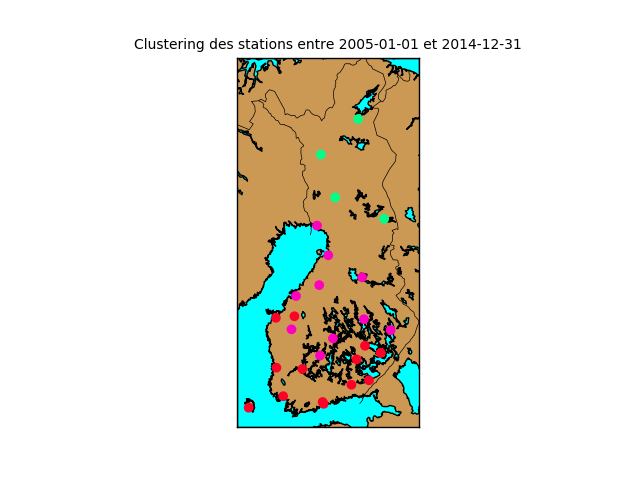
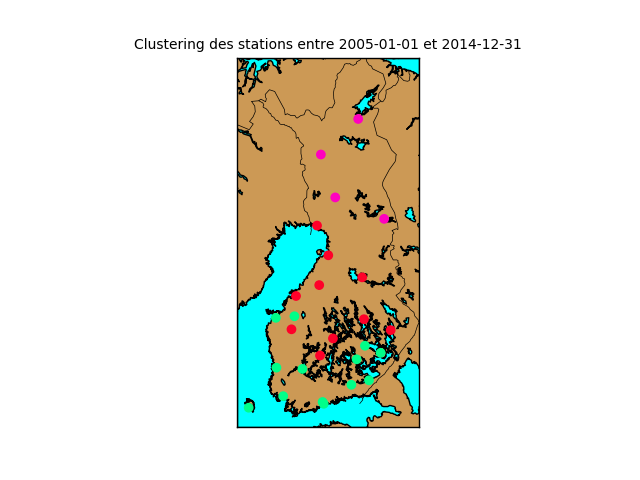
Only years period for question 3

diff --git a/cluster_by_period.py b/cluster_by_period.py
@@ -15,19 +15,6 @@ from matplotlib.colors import Colormap
 logging.getLogger().setLevel(logging.INFO)
 
 def extract_data(start, end):
-    # Check parameters
-    dateparser = re.compile("(?P<year>\d+)-(?P<month>\d+)-(?P<day>\d+)")
-
-    start_parsed = dateparser.match(start)
-    end_parsed = dateparser.match(end)
-
-    if not start_parsed or not end_parsed:
-        logging.critical('Les dates doivent être au format year-month-day.')
-        return
-
-    start_data = start_parsed.groupdict()
-    end_data = end_parsed.groupdict()
-
     # Extract data
     cluster = Cluster()
     session = cluster.connect('finland_weather_metar')
@@ -35,12 +22,8 @@ def extract_data(start, end):
     query = '''
         SELECT station, latitude, longitude, temperature_fahrenheit, dew_point_temperature, feel
         FROM temporal
-        WHERE year >= ''' + str(start_data['year']) + '''
-        AND month >= ''' + str(start_data['month']) + '''
-        AND day >= ''' + str(start_data['day']) + '''
-        AND year <= ''' + str(end_data['year']) + '''
-        AND month <= ''' + str(end_data['month']) + '''
-        AND day <= ''' + str(end_data['day']) + '''
+        WHERE year >= ''' + str(start) + '''
+        AND year <= ''' + str(end) + '''
         ALLOW FILTERING;
     '''
 
@@ -72,6 +55,9 @@ def cluster_by_period(start, end):
     sum_by_station = map.reduceByKey(lambda a, b : a + b)
 
     mean_by_station = sum_by_station.map(calc_moy_key)
+    if (len(mean_by_station.collect()) < 2):
+        logging.warning('Only data for one station during this period, so there is one cluster of one station !')
+        return
 
     # KMeans
     # Fist we determine the optimal k with elbow method
